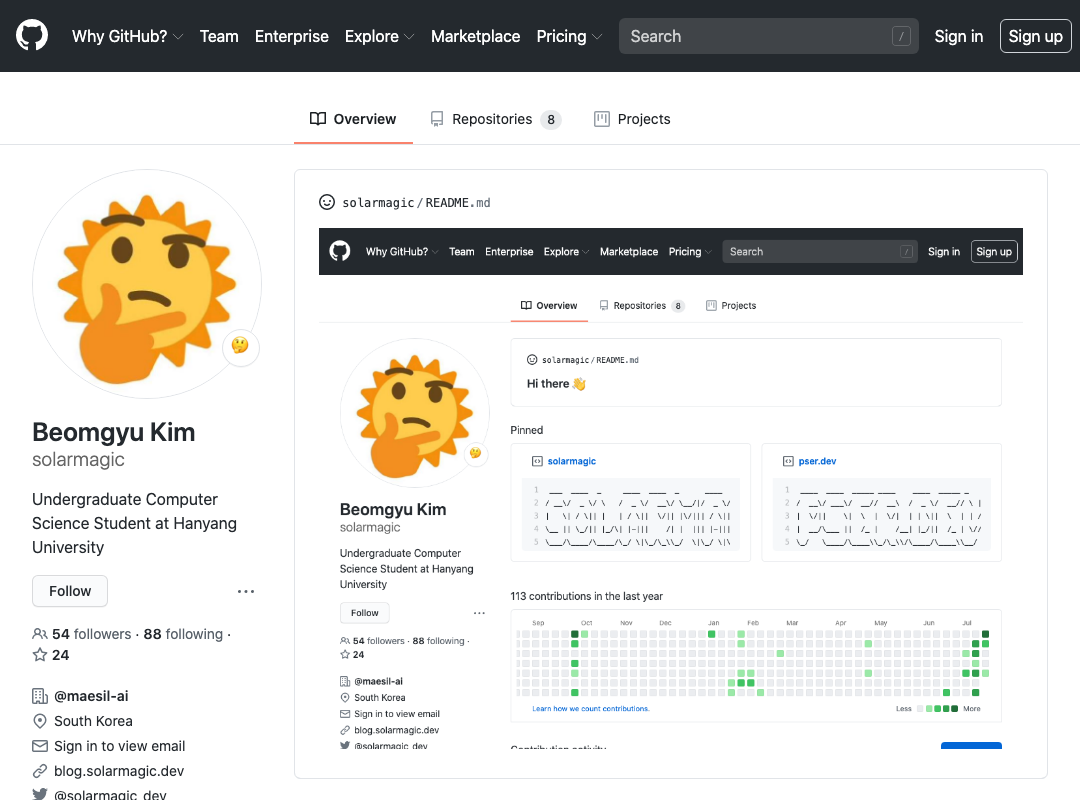
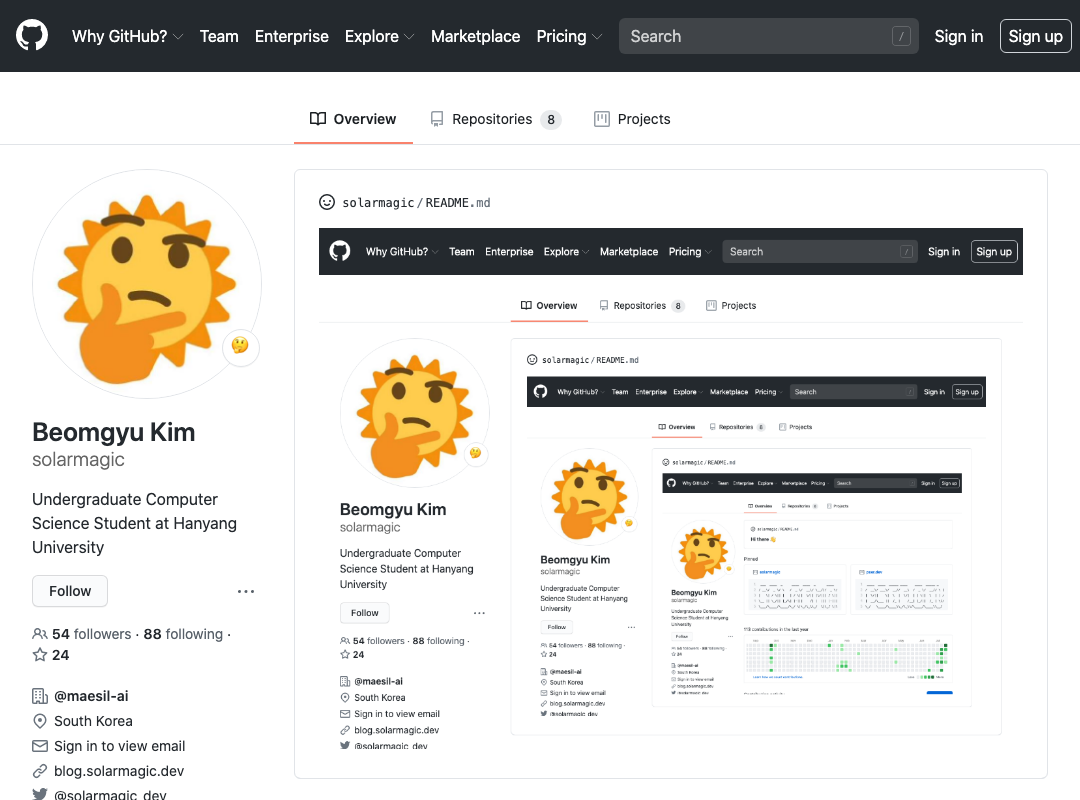
"adds new screenshot at depth 1"

diff --git a/README.md b/README.md
@@ -1,1 +1,1 @@
-![Woah!](https://github.com/solarmagic/solarmagic/blob/master/screenshot-2.png)
+![Woah!](https://github.com/solarmagic/solarmagic/blob/master/screenshot-1.png)
